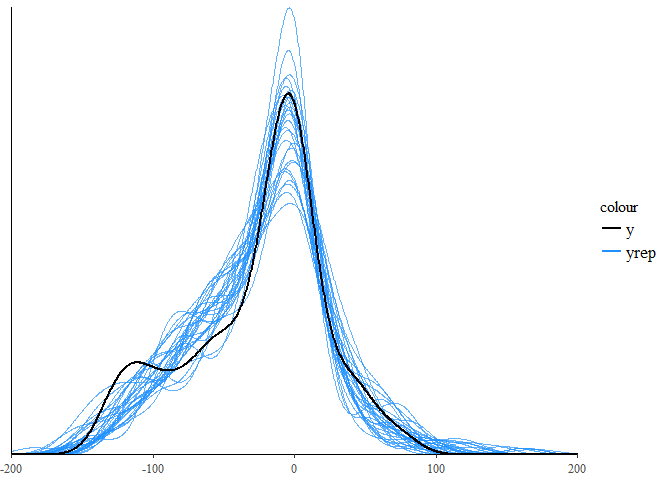
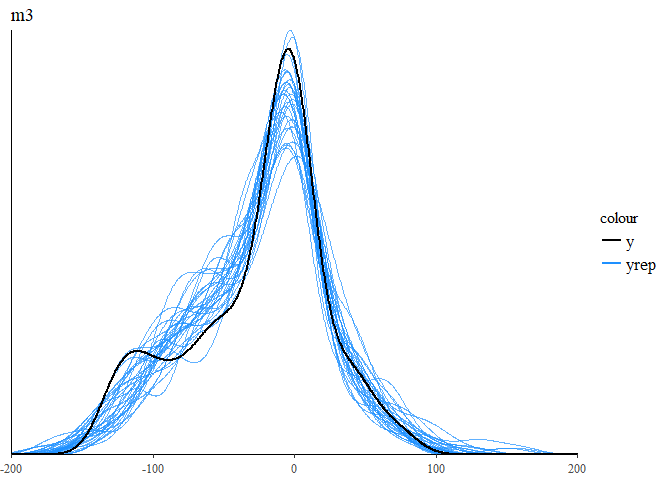
.

Changed region(s): [[0.0312, 0.0625, 0.8438, 0.9688], [0.875, 0.4062, 1.0, 0.5625], [0.0, 0.0, 0.0625, 0.0625]]

diff --git a/gam_with_brms.md b/gam_with_brms.md
@@ -4,35 +4,9 @@ Bindoff, A.
 
 2018-04-26
 
-The first half of this analysis is lifted from a blog by Gavin Simpson <https://www.fromthebottomoftheheap.net/2018/04/21/fitting-gams-with-brms/>, which shows how to fit a GAM with the `brms` package and Stan in R. The analysis is well documented in the aforementioned blog, with the suggestion that in Part II the non-constant variance will be modelled.
+The first half of this analysis is lifted from a blog by Gavin Simpson <https://www.fromthebottomoftheheap.net/2018/04/21/fitting-gams-with-brms/>, which shows how to fit a GAM with the `brms` package and Stan in R. The analysis is well documented in the aforementioned blog, and includes a suggestion that in Part II the non-constant variance will be modelled.
 
-Inspired by how easy it was to fit the model in `brms` I decided not to wait for Part II, and figured it out myself.
-
-    ## Loading required package: nlme
-
-    ## This is mgcv 1.8-23. For overview type 'help("mgcv-package")'.
-
-    ## Loading required package: Rcpp
-
-    ## Loading required package: ggplot2
-
-    ## Loading 'brms' package (version 2.2.0). Useful instructions
-    ## can be found by typing help('brms'). A more detailed introduction
-    ## to the package is available through vignette('brms_overview').
-    ## Run theme_set(theme_default()) to use the default bayesplot theme.
-
-    ## 
-    ## Attaching package: 'brms'
-
-    ## The following objects are masked from 'package:mgcv':
-    ## 
-    ##     s, t2
-
-    ## This is bayesplot version 1.5.0
-
-    ## - Plotting theme set to bayesplot::theme_default()
-
-    ## - Online documentation at mc-stan.org/bayesplot
+Inspired by how easy it was to fit the model in `brms` I decided not to wait for Part II, and figured out how to model the non-constant variance myself.
 
 Load the example data mcycle and plot
 
@@ -61,6 +35,8 @@ ggplot(mcycle, aes(x = times, y = accel)) +
 ```
 
 ![](gam_with_brms_files/figure-markdown_github/unnamed-chunk-2-1.png)
+
+There is no way to fit a straight line to this data, and fitting a polynomial might also present some challenges. Clearly, the assumption of constant variance is violated but for the purposes of exposition we will proceed to fit a GAM and a Bayesian GAM using a smooth spline.
 
 Fit a model, *m*<sub>1</sub> with a GAM using the `mgcv` package.
 
@@ -94,10 +70,10 @@ summary(m1)
 Plot the marginal effects
 
 ``` r
-eS <- predict(m1, newdata = mcycle, type = "response", se = T)
-eS <- data.frame(eS, mcycle)
+me <- predict(m1, newdata = mcycle, type = "response", se = T)
+me <- data.frame(me, mcycle)
 
-ggplot(eS, aes(x = times, y = fit)) +
+ggplot(me, aes(x = times, y = fit)) +
   geom_line(size = 1, colour = "blue") +
   geom_ribbon(mapping = aes(ymin = fit - 1.96*se.fit, ymax = fit + 1.96*se.fit), alpha = 0.2) +
   geom_point(data = mcycle, aes(x = times, y = accel)) +
@@ -143,24 +119,21 @@ summary(m2)
     ## scale reduction factor on split chains (at convergence, Rhat = 1).
 
 ``` r
-#gam.vcomp(m1, rescale = FALSE)
-
 plot(marginal_effects(m2), points = TRUE)
 ```
 
 ![](gam_with_brms_files/figure-markdown_github/unnamed-chunk-5-1.png)
 
-It is clear that variance is not constant, but the model has made this assumption. Now fit a distributional regression model, *m*<sub>3</sub> which allows for non-constant variance.
+A possible solution is to model the non-constant variance by fitting a distributional regression model, *m*<sub>3</sub> which allows for this. The `bf` function in `brms` makes this trivially easy (in this example, at least) by letting you casually specify the additional term `sigma ~ s(times)` like you were ordering a kebab at 3am.
 
 ``` r
-## Distributional regression model
-
 m3 <- brm(bf(accel ~ s(times), sigma ~ s(times)),
   data = mcycle, family = gaussian(),
   cores = 2, seed = 17,
   iter = 4000, warmup = 1000, thin = 10, refresh = 0, 
   control = list(adapt_delta = 0.99, max_treedepth = 15)
 )
+
 summary(m3)
 ```
 
@@ -195,32 +168,32 @@ plot(marginal_effects(m3), points = TRUE)
 
 ![](gam_with_brms_files/figure-markdown_github/unnamed-chunk-6-1.png)
 
-This looks much better. Now compare models using posterior predictive checks (generate data from the models and compare to observed data). Red is *m*<sub>2</sub> and blue is *m*<sub>3</sub>.
+This looks much better, it's a good kebab at any time of day or night. Now compare models using posterior predictive checks (generate data from the models *y*<sup>*r**e**p*</sup> and compare to observed data *y*).
 
 ``` r
 par(mfrow = c(2, 2))
 pp_check(m2, nsamples = 30) + ggplot2::scale_color_manual(values = c("black", "indianred")) +
-  ggplot2::xlim(-200, 200)
+  ggplot2::xlim(-200, 200) + labs(title = "m2")
 ```
 
 ![](gam_with_brms_files/figure-markdown_github/unnamed-chunk-7-1.png)
 
 ``` r
 pp_check(m3, nsamples = 30) + ggplot2::scale_color_manual(values = c("black", "dodgerblue")) +
-  ggplot2::xlim(-200, 200)
+  ggplot2::xlim(-200, 200) + labs(title = "m3")
 ```
 
 ![](gam_with_brms_files/figure-markdown_github/unnamed-chunk-7-2.png)
 
 ``` r
 pp_check(m2, nsamples = 30, type = "ecdf_overlay") + ggplot2::scale_color_manual(values = c("black", "indianred")) +
-  ggplot2::xlim(-200, 200)
+  ggplot2::xlim(-200, 200) + labs(title = "m2")
 ```
 
 ![](gam_with_brms_files/figure-markdown_github/unnamed-chunk-7-3.png)
 
 ``` r
-pp_check(m3, nsamples = 30, type = "ecdf_overlay") + ggplot2::scale_color_manual(values = c("black", "dodgerblue"))+   ggplot2::xlim(-200, 200)
+pp_check(m3, nsamples = 30, type = "ecdf_overlay") + ggplot2::scale_color_manual(values = c("black", "dodgerblue"))+   ggplot2::xlim(-200, 200) + labs(title = "m3")
 ```
 
 ![](gam_with_brms_files/figure-markdown_github/unnamed-chunk-7-4.png)
